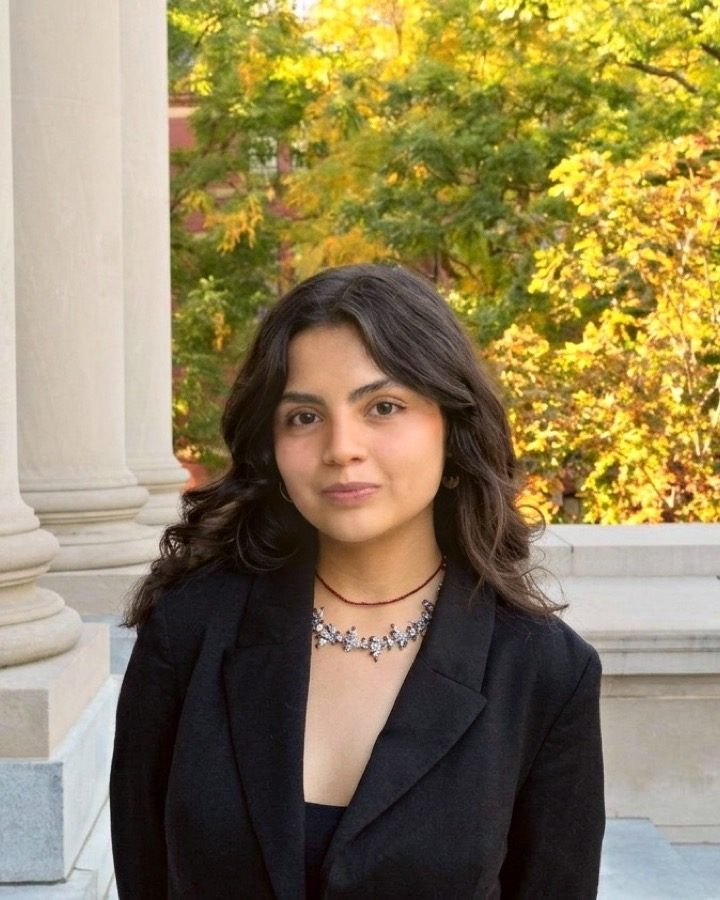
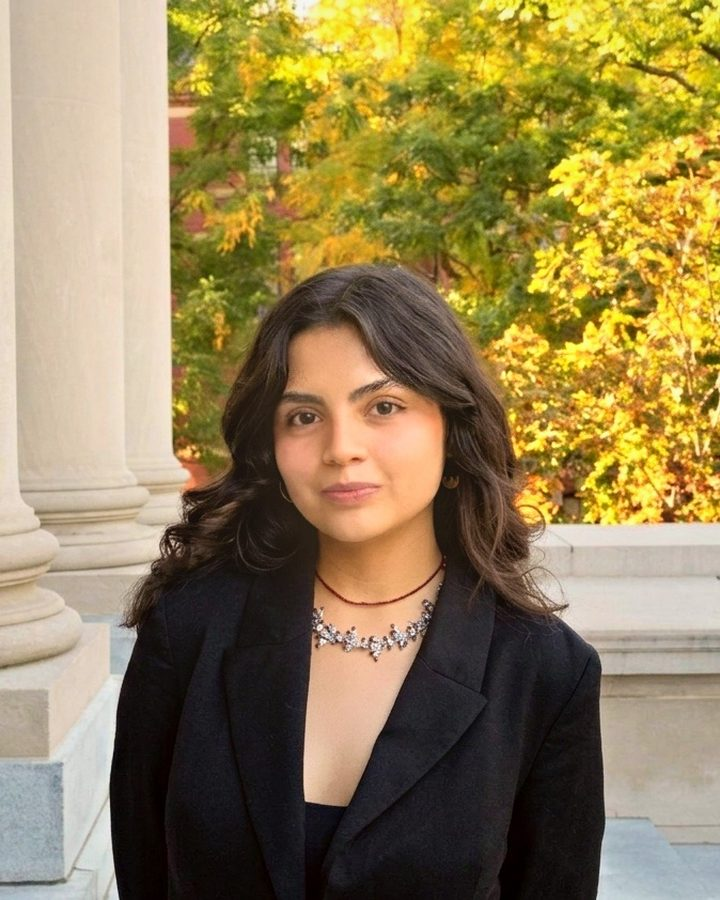
Update portrait

diff --git a/index.html b/index.html
@@ -93,7 +93,7 @@
       <section class="hero" id="about">
         <aside class="card" aria-label="Profile">
           <div class="portrait">
-            <img src="photo.jpg" alt="Portrait of Frida Sofía López Bravo" width="720" height="900"
+            <img src="photo.jpg?v=2" alt="Portrait of Frida Sofía López Bravo" width="720" height="900"
                  onerror="this.remove(); document.getElementById('initials').hidden = false;">
             <span class="initials" id="initials" hidden>FLB</span>
           </div>
